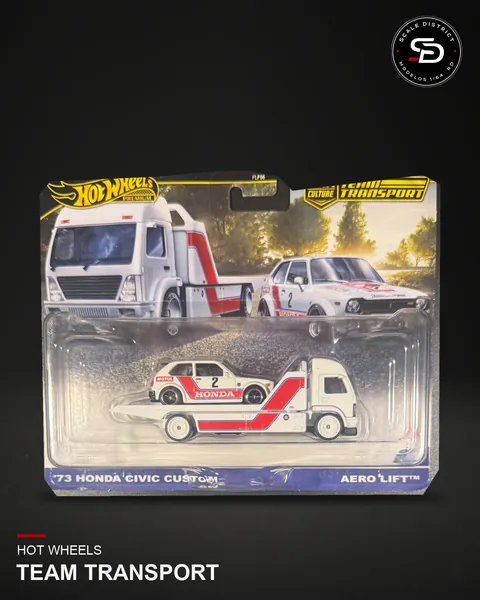
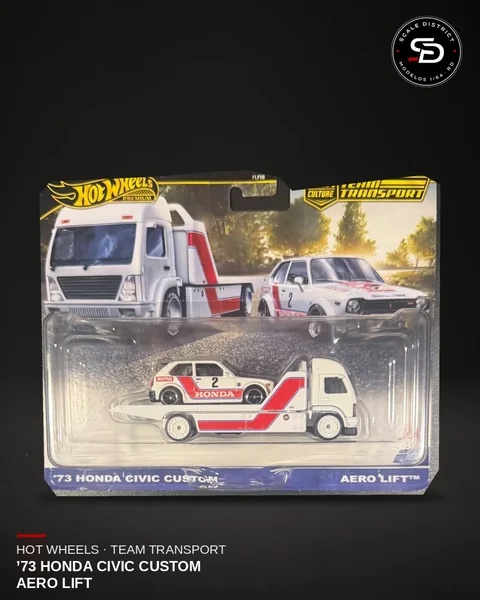
Fotos Team Transport: nombre real de cada pack en vez de 'Team Transport'; Mazda Cosmo: Jay Leno's Garage
Claude-Session: https://claude.ai/code/session_01UQvPZvXPHFMjEEDJt13qJg

Changed region(s): [[0.0312, 0.9, 0.4688, 0.99]]

diff --git a/index.html b/index.html
@@ -317,7 +317,7 @@
 
 <script>
   /*INVENTARIO:INICIO*/
-  const INVENTARIO = {"items":[{"marca":"Mini GT","modelo":"Lamborghini Aventador SVJ 63 Roadster – Verde Shock","condicion":"Mint, Sealed","cantidad":1,"precio":2000,"foto":"mini-gt-lamborghini-aventador-svj-63-roadster-verde-shock"},{"marca":"Hot Wheels","modelo":"2019 Jeep Grand Cherokee Trackhawk – 2026 Power Trip Series","condicion":"Near-Mint to Slightly Rough Edges","cantidad":1,"precio":1200,"foto":"hot-wheels-2019-jeep-grand-cherokee-trackhawk-2026-power-tri"},{"marca":"Mini GT","modelo":"Toyota Supra (A80) Top Secret GT-300 Top Secret Purple – Mijo Exclusives","condicion":"Mint, Sealed","cantidad":2,"precio":2500},{"marca":"Hot Wheels","modelo":"Porsche Carrera GT – 2025 Timeless Icons Series","condicion":"Near-Mint to Slightly Rough Edges","cantidad":2,"precio":1200,"foto":"hot-wheels-porsche-carrera-gt-2025-timeless-icons-series"},{"marca":"Mini GT","modelo":"Lamborghini Revuelto – Arancio Dac Lucido","condicion":"Mint, Sealed","cantidad":2,"precio":2000,"foto":"mini-gt-lamborghini-revuelto-arancio-dac-lucido"},{"marca":"Mini GT","modelo":"Lamborghini Huracán STO – Bianco Asopo","condicion":"Near-Mint","cantidad":2,"precio":1600,"foto":"mini-gt-lamborghini-huracan-sto-bianco-asopo"},{"marca":"Mini GT","modelo":"Nissan GT-R Nismo (R35) 2024 – Brilliant White Pearl","condicion":"Mint, Sealed","cantidad":2,"precio":2000,"foto":"mini-gt-nissan-gt-r-nismo-r35-2024-brilliant-white-pearl"},{"marca":"Mini GT","modelo":"Nissan LB-Super Silhouette S15 SILVIA GARASIDRIFT x LBWK 2025","condicion":"Mint, Sealed","cantidad":2,"precio":2600,"foto":"mini-gt-nissan-lb-super-silhouette-s15-silvia-garasidrift-x"},{"marca":"Hot Wheels","modelo":"Glory Chaser","condicion":"Mint, Sealed","cantidad":1,"precio":350,"foto":"hot-wheels-glory-chaser"},{"marca":"Hot Wheels","modelo":"'69 COPO Corvette","condicion":"Mint, Sealed","cantidad":1,"precio":350,"foto":"hot-wheels-69-copo-corvette"},{"marca":"Hot Wheels","modelo":"'73 BMW 3.0 CSL Race Car","condicion":"Mint, Sealed","cantidad":1,"precio":350,"foto":"hot-wheels-73-bmw-3-0-csl-race-car"},{"marca":"Hot Wheels","modelo":"McLaren F1 GTR","condicion":"Mint, Sealed","cantidad":1,"precio":350,"foto":"hot-wheels-mclaren-f1-gtr"},{"marca":"Hot Wheels","modelo":"GT Scorcher","condicion":"Mint, Sealed","cantidad":1,"precio":350,"foto":"hot-wheels-gt-scorcher"},{"marca":"Hot Wheels","modelo":"'67 Ford GT40 Mk.IV","condicion":"Mint, Sealed","cantidad":1,"precio":350,"foto":"hot-wheels-67-ford-gt40-mk-iv"},{"marca":"Hot Wheels","modelo":"BMW R nineT Racer","condicion":"Mint, Sealed","cantidad":1,"precio":350,"foto":"hot-wheels-bmw-r-ninet-racer"},{"marca":"Hot Wheels","modelo":"Porsche 935","condicion":"Mint, Sealed","cantidad":1,"precio":350,"foto":"hot-wheels-porsche-935"},{"marca":"Hot Wheels","modelo":"Shelby Cobra 427 S/C","condicion":"Mint, Sealed","cantidad":1,"precio":350,"foto":"hot-wheels-shelby-cobra-427-s-c"},{"marca":"Hot Wheels","modelo":"'87 Ford Sierra Cosworth","condicion":"Mint, Sealed","cantidad":1,"precio":350,"foto":"hot-wheels-87-ford-sierra-cosworth"},{"marca":"Hot Wheels","modelo":"Mazda 323 GTR (Modern Classics)","condicion":"Mint, Sealed","cantidad":1,"precio":550,"foto":"hot-wheels-mazda-323-gtr-modern-classics"},{"marca":"Hot Wheels","modelo":"2017 Nissan GT-R (R35) – 7-Eleven","condicion":"Mint, Sealed","cantidad":2,"precio":1200,"foto":"hot-wheels-2017-nissan-gt-r-r35-7-eleven"},{"marca":"Hot Wheels","modelo":"DMC DeLorean – HW Rally Hauler (Team Transport)","condicion":"Mint, Sealed","cantidad":1,"precio":4200,"foto":"hot-wheels-dmc-delorean-hw-rally-hauler-team-transport"},{"marca":"Hot Wheels","modelo":"'73 Honda Civic Custom – Aero Lift (Team Transport)","condicion":"Mint, Sealed","cantidad":1,"precio":4200,"foto":"hot-wheels-73-honda-civic-custom-aero-lift-team-transport"},{"marca":"Hot Wheels","modelo":"Toyota FJ Cruiser – Horizon Hauler (Team Transport)","condicion":"Mint, Sealed","cantidad":1,"precio":4200,"foto":"hot-wheels-toyota-fj-cruiser-horizon-hauler-team-transport","vendidos":1},{"marca":"Hot Wheels","modelo":"Toyota Soarer – Kousoku Hauler (Team Transport)","condicion":"Mint, Sealed","cantidad":1,"precio":4200,"foto":"hot-wheels-toyota-soarer-jousoku-hauler-team-transport"},{"marca":"Hot Wheels","modelo":"2023 Nissan Z (Then and Now)","condicion":"Mint, Sealed","cantidad":1,"precio":700,"foto":"hot-wheels-2023-nissan-z-then-and-now"},{"marca":"Hot Wheels","modelo":"HW Motor Show 5-pack A (Acura NSX / Corvette C8.R / Aston Martin Vantage GTE / McLaren Senna / Jaguar F-Type)","condicion":"Mint, Sealed","cantidad":1,"precio":2200,"foto":"hot-wheels-hw-motor-show-5-pack-a-acura-nsx-corvette-c8-r-as"},{"marca":"Hot Wheels","modelo":"HW Motor Show 5-pack B (Aston Martin / Ferrari / Ford / Lamborghini / Lotus)","condicion":"Mint, Sealed","cantidad":1,"precio":2200,"foto":"hot-wheels-hw-motor-show-5-pack-b-aston-martin-ferrari-ford"},{"marca":"Hot Wheels","modelo":"Diorama Box Set \"Fleet Street\" (McLaren F1 GTR / Ford Transit Supervan / Ford GT-40)","condicion":"Mint, Sealed","cantidad":2,"precio":4100,"foto":"hot-wheels-diorama-box-set-fleet-street-mclaren-f1-gtr-ford"},{"marca":"Hot Wheels","modelo":"Toyota AE86 Sprinter Trueno","condicion":"Mint, Sealed","cantidad":3,"precio":350,"foto":"hot-wheels-toyota-ae86-sprinter-trueno"},{"marca":"Hot Wheels","modelo":"'94 Audi Avant RS2","condicion":"Mint, Sealed","cantidad":1,"precio":350,"foto":"hot-wheels-94-audi-avant-rs2"},{"marca":"Hot Wheels","modelo":"Mazda MX-5 Miata","condicion":"Mint, Sealed","cantidad":1,"precio":350,"foto":"hot-wheels-mazda-mx-5-miata"},{"marca":"Hot Wheels","modelo":"Ferrari 365 GTB4 Competizione","condicion":"Mint, Sealed","cantidad":1,"precio":350,"foto":"hot-wheels-ferrari-365-gtb4-competizione"},{"marca":"Hot Wheels","modelo":"Lotus Cortina","condicion":"Mint, Sealed","cantidad":1,"precio":350,"foto":"hot-wheels-lotus-cortina"},{"marca":"Hot Wheels","modelo":"2018 Camaro SS","condicion":"Mint, Sealed","cantidad":1,"precio":350,"foto":"hot-wheels-2018-camaro-ss"},{"marca":"Hot Wheels","modelo":"Bugatti Bolide","condicion":"Mint, Sealed","cantidad":1,"precio":350,"foto":"hot-wheels-bugatti-bolide"},{"marca":"Hot Wheels","modelo":"1968 Mazda Cosmo Sport (Doug DeMuro's Garage)","condicion":"Mint, Sealed","cantidad":1,"precio":1000,"foto":"hot-wheels-1968-mazda-cosmo-sport-doug-demuro-s-garage"},{"marca":"Hot Wheels","modelo":"Fast & Furious – Toyota Land Cruiser FJ60","condicion":"Mint, Sealed","cantidad":2,"precio":1000,"foto":"hot-wheels-fast-furious-toyota-land-cruiser-fj40"},{"marca":"Hot Wheels","modelo":"'66 Chevrolet Corvair Yenko Stinger / '72 Chevy Ramp Truck (Team Transport)","condicion":"Mint, Sealed","cantidad":1,"precio":1800,"foto":"hot-wheels-68-chevrolet-corvette-yenko-stinger-72-chevy-ramp"},{"marca":"Hot Wheels","modelo":"'67 Off Road Tout-Terrain Camaro / Terra-Torque (Team Transport)","condicion":"Mint, Sealed","cantidad":1,"precio":1800,"foto":"hot-wheels-67-off-road-tout-terrain-camaro-terra-torque-team"},{"marca":"Hot Wheels","modelo":"'07 Honda Civic Type R / Kousoku Hauler (Team Transport)","condicion":"Mint, Sealed","cantidad":1,"precio":1800,"foto":"hot-wheels-07-honda-civic-type-r-kousoku-hauler-team-transpo"},{"marca":"Hot Wheels","modelo":"Volkswagen Corrado VR6 / Retro Rig (Team Transport)","condicion":"Mint, Sealed","cantidad":1,"precio":1800,"foto":"hot-wheels-volkswagen-corrado-vr6-retro-rig-team-transport"}],"actualizado":"2026-09-30"};
+  const INVENTARIO = {"items":[{"marca":"Mini GT","modelo":"Lamborghini Aventador SVJ 63 Roadster – Verde Shock","condicion":"Mint, Sealed","cantidad":1,"precio":2000,"foto":"mini-gt-lamborghini-aventador-svj-63-roadster-verde-shock"},{"marca":"Hot Wheels","modelo":"2019 Jeep Grand Cherokee Trackhawk – 2026 Power Trip Series","condicion":"Near-Mint to Slightly Rough Edges","cantidad":1,"precio":1200,"foto":"hot-wheels-2019-jeep-grand-cherokee-trackhawk-2026-power-tri"},{"marca":"Mini GT","modelo":"Toyota Supra (A80) Top Secret GT-300 Top Secret Purple – Mijo Exclusives","condicion":"Mint, Sealed","cantidad":2,"precio":2500},{"marca":"Hot Wheels","modelo":"Porsche Carrera GT – 2025 Timeless Icons Series","condicion":"Near-Mint to Slightly Rough Edges","cantidad":2,"precio":1200,"foto":"hot-wheels-porsche-carrera-gt-2025-timeless-icons-series"},{"marca":"Mini GT","modelo":"Lamborghini Revuelto – Arancio Dac Lucido","condicion":"Mint, Sealed","cantidad":2,"precio":2000,"foto":"mini-gt-lamborghini-revuelto-arancio-dac-lucido"},{"marca":"Mini GT","modelo":"Lamborghini Huracán STO – Bianco Asopo","condicion":"Near-Mint","cantidad":2,"precio":1600,"foto":"mini-gt-lamborghini-huracan-sto-bianco-asopo"},{"marca":"Mini GT","modelo":"Nissan GT-R Nismo (R35) 2024 – Brilliant White Pearl","condicion":"Mint, Sealed","cantidad":2,"precio":2000,"foto":"mini-gt-nissan-gt-r-nismo-r35-2024-brilliant-white-pearl"},{"marca":"Mini GT","modelo":"Nissan LB-Super Silhouette S15 SILVIA GARASIDRIFT x LBWK 2025","condicion":"Mint, Sealed","cantidad":2,"precio":2600,"foto":"mini-gt-nissan-lb-super-silhouette-s15-silvia-garasidrift-x"},{"marca":"Hot Wheels","modelo":"Glory Chaser","condicion":"Mint, Sealed","cantidad":1,"precio":350,"foto":"hot-wheels-glory-chaser"},{"marca":"Hot Wheels","modelo":"'69 COPO Corvette","condicion":"Mint, Sealed","cantidad":1,"precio":350,"foto":"hot-wheels-69-copo-corvette"},{"marca":"Hot Wheels","modelo":"'73 BMW 3.0 CSL Race Car","condicion":"Mint, Sealed","cantidad":1,"precio":350,"foto":"hot-wheels-73-bmw-3-0-csl-race-car"},{"marca":"Hot Wheels","modelo":"McLaren F1 GTR","condicion":"Mint, Sealed","cantidad":1,"precio":350,"foto":"hot-wheels-mclaren-f1-gtr"},{"marca":"Hot Wheels","modelo":"GT Scorcher","condicion":"Mint, Sealed","cantidad":1,"precio":350,"foto":"hot-wheels-gt-scorcher"},{"marca":"Hot Wheels","modelo":"'67 Ford GT40 Mk.IV","condicion":"Mint, Sealed","cantidad":1,"precio":350,"foto":"hot-wheels-67-ford-gt40-mk-iv"},{"marca":"Hot Wheels","modelo":"BMW R nineT Racer","condicion":"Mint, Sealed","cantidad":1,"precio":350,"foto":"hot-wheels-bmw-r-ninet-racer"},{"marca":"Hot Wheels","modelo":"Porsche 935","condicion":"Mint, Sealed","cantidad":1,"precio":350,"foto":"hot-wheels-porsche-935"},{"marca":"Hot Wheels","modelo":"Shelby Cobra 427 S/C","condicion":"Mint, Sealed","cantidad":1,"precio":350,"foto":"hot-wheels-shelby-cobra-427-s-c"},{"marca":"Hot Wheels","modelo":"'87 Ford Sierra Cosworth","condicion":"Mint, Sealed","cantidad":1,"precio":350,"foto":"hot-wheels-87-ford-sierra-cosworth"},{"marca":"Hot Wheels","modelo":"Mazda 323 GTR (Modern Classics)","condicion":"Mint, Sealed","cantidad":1,"precio":550,"foto":"hot-wheels-mazda-323-gtr-modern-classics"},{"marca":"Hot Wheels","modelo":"2017 Nissan GT-R (R35) – 7-Eleven","condicion":"Mint, Sealed","cantidad":2,"precio":1200,"foto":"hot-wheels-2017-nissan-gt-r-r35-7-eleven"},{"marca":"Hot Wheels","modelo":"DMC DeLorean – HW Rally Hauler (Team Transport)","condicion":"Mint, Sealed","cantidad":1,"precio":4200,"foto":"hot-wheels-dmc-delorean-hw-rally-hauler-team-transport"},{"marca":"Hot Wheels","modelo":"'73 Honda Civic Custom – Aero Lift (Team Transport)","condicion":"Mint, Sealed","cantidad":1,"precio":4200,"foto":"hot-wheels-73-honda-civic-custom-aero-lift-team-transport"},{"marca":"Hot Wheels","modelo":"Toyota FJ Cruiser – Horizon Hauler (Team Transport)","condicion":"Mint, Sealed","cantidad":1,"precio":4200,"foto":"hot-wheels-toyota-fj-cruiser-horizon-hauler-team-transport","vendidos":1},{"marca":"Hot Wheels","modelo":"Toyota Soarer – Kousoku Hauler (Team Transport)","condicion":"Mint, Sealed","cantidad":1,"precio":4200,"foto":"hot-wheels-toyota-soarer-jousoku-hauler-team-transport"},{"marca":"Hot Wheels","modelo":"2023 Nissan Z (Then and Now)","condicion":"Mint, Sealed","cantidad":1,"precio":700,"foto":"hot-wheels-2023-nissan-z-then-and-now"},{"marca":"Hot Wheels","modelo":"HW Motor Show 5-pack A (Acura NSX / Corvette C8.R / Aston Martin Vantage GTE / McLaren Senna / Jaguar F-Type)","condicion":"Mint, Sealed","cantidad":1,"precio":2200,"foto":"hot-wheels-hw-motor-show-5-pack-a-acura-nsx-corvette-c8-r-as"},{"marca":"Hot Wheels","modelo":"HW Motor Show 5-pack B (Aston Martin / Ferrari / Ford / Lamborghini / Lotus)","condicion":"Mint, Sealed","cantidad":1,"precio":2200,"foto":"hot-wheels-hw-motor-show-5-pack-b-aston-martin-ferrari-ford"},{"marca":"Hot Wheels","modelo":"Diorama Box Set \"Fleet Street\" (McLaren F1 GTR / Ford Transit Supervan / Ford GT-40)","condicion":"Mint, Sealed","cantidad":2,"precio":4100,"foto":"hot-wheels-diorama-box-set-fleet-street-mclaren-f1-gtr-ford"},{"marca":"Hot Wheels","modelo":"Toyota AE86 Sprinter Trueno","condicion":"Mint, Sealed","cantidad":3,"precio":350,"foto":"hot-wheels-toyota-ae86-sprinter-trueno"},{"marca":"Hot Wheels","modelo":"'94 Audi Avant RS2","condicion":"Mint, Sealed","cantidad":1,"precio":350,"foto":"hot-wheels-94-audi-avant-rs2"},{"marca":"Hot Wheels","modelo":"Mazda MX-5 Miata","condicion":"Mint, Sealed","cantidad":1,"precio":350,"foto":"hot-wheels-mazda-mx-5-miata"},{"marca":"Hot Wheels","modelo":"Ferrari 365 GTB4 Competizione","condicion":"Mint, Sealed","cantidad":1,"precio":350,"foto":"hot-wheels-ferrari-365-gtb4-competizione"},{"marca":"Hot Wheels","modelo":"Lotus Cortina","condicion":"Mint, Sealed","cantidad":1,"precio":350,"foto":"hot-wheels-lotus-cortina"},{"marca":"Hot Wheels","modelo":"2018 Camaro SS","condicion":"Mint, Sealed","cantidad":1,"precio":350,"foto":"hot-wheels-2018-camaro-ss"},{"marca":"Hot Wheels","modelo":"Bugatti Bolide","condicion":"Mint, Sealed","cantidad":1,"precio":350,"foto":"hot-wheels-bugatti-bolide"},{"marca":"Hot Wheels","modelo":"1968 Mazda Cosmo Sport (Jay Leno's Garage)","condicion":"Mint, Sealed","cantidad":1,"precio":1000,"foto":"hot-wheels-1968-mazda-cosmo-sport-doug-demuro-s-garage"},{"marca":"Hot Wheels","modelo":"Fast & Furious – Toyota Land Cruiser FJ60","condicion":"Mint, Sealed","cantidad":2,"precio":1000,"foto":"hot-wheels-fast-furious-toyota-land-cruiser-fj40"},{"marca":"Hot Wheels","modelo":"'66 Chevrolet Corvair Yenko Stinger / '72 Chevy Ramp Truck (Team Transport)","condicion":"Mint, Sealed","cantidad":1,"precio":1800,"foto":"hot-wheels-68-chevrolet-corvette-yenko-stinger-72-chevy-ramp"},{"marca":"Hot Wheels","modelo":"'67 Off Road Tout-Terrain Camaro / Terra-Torque (Team Transport)","condicion":"Mint, Sealed","cantidad":1,"precio":1800,"foto":"hot-wheels-67-off-road-tout-terrain-camaro-terra-torque-team"},{"marca":"Hot Wheels","modelo":"'07 Honda Civic Type R / Kousoku Hauler (Team Transport)","condicion":"Mint, Sealed","cantidad":1,"precio":1800,"foto":"hot-wheels-07-honda-civic-type-r-kousoku-hauler-team-transpo"},{"marca":"Hot Wheels","modelo":"Volkswagen Corrado VR6 / Retro Rig (Team Transport)","condicion":"Mint, Sealed","cantidad":1,"precio":1800,"foto":"hot-wheels-volkswagen-corrado-vr6-retro-rig-team-transport"}],"actualizado":"2026-09-30"};
   /*INVENTARIO:FIN*/
 
   const COND = {
